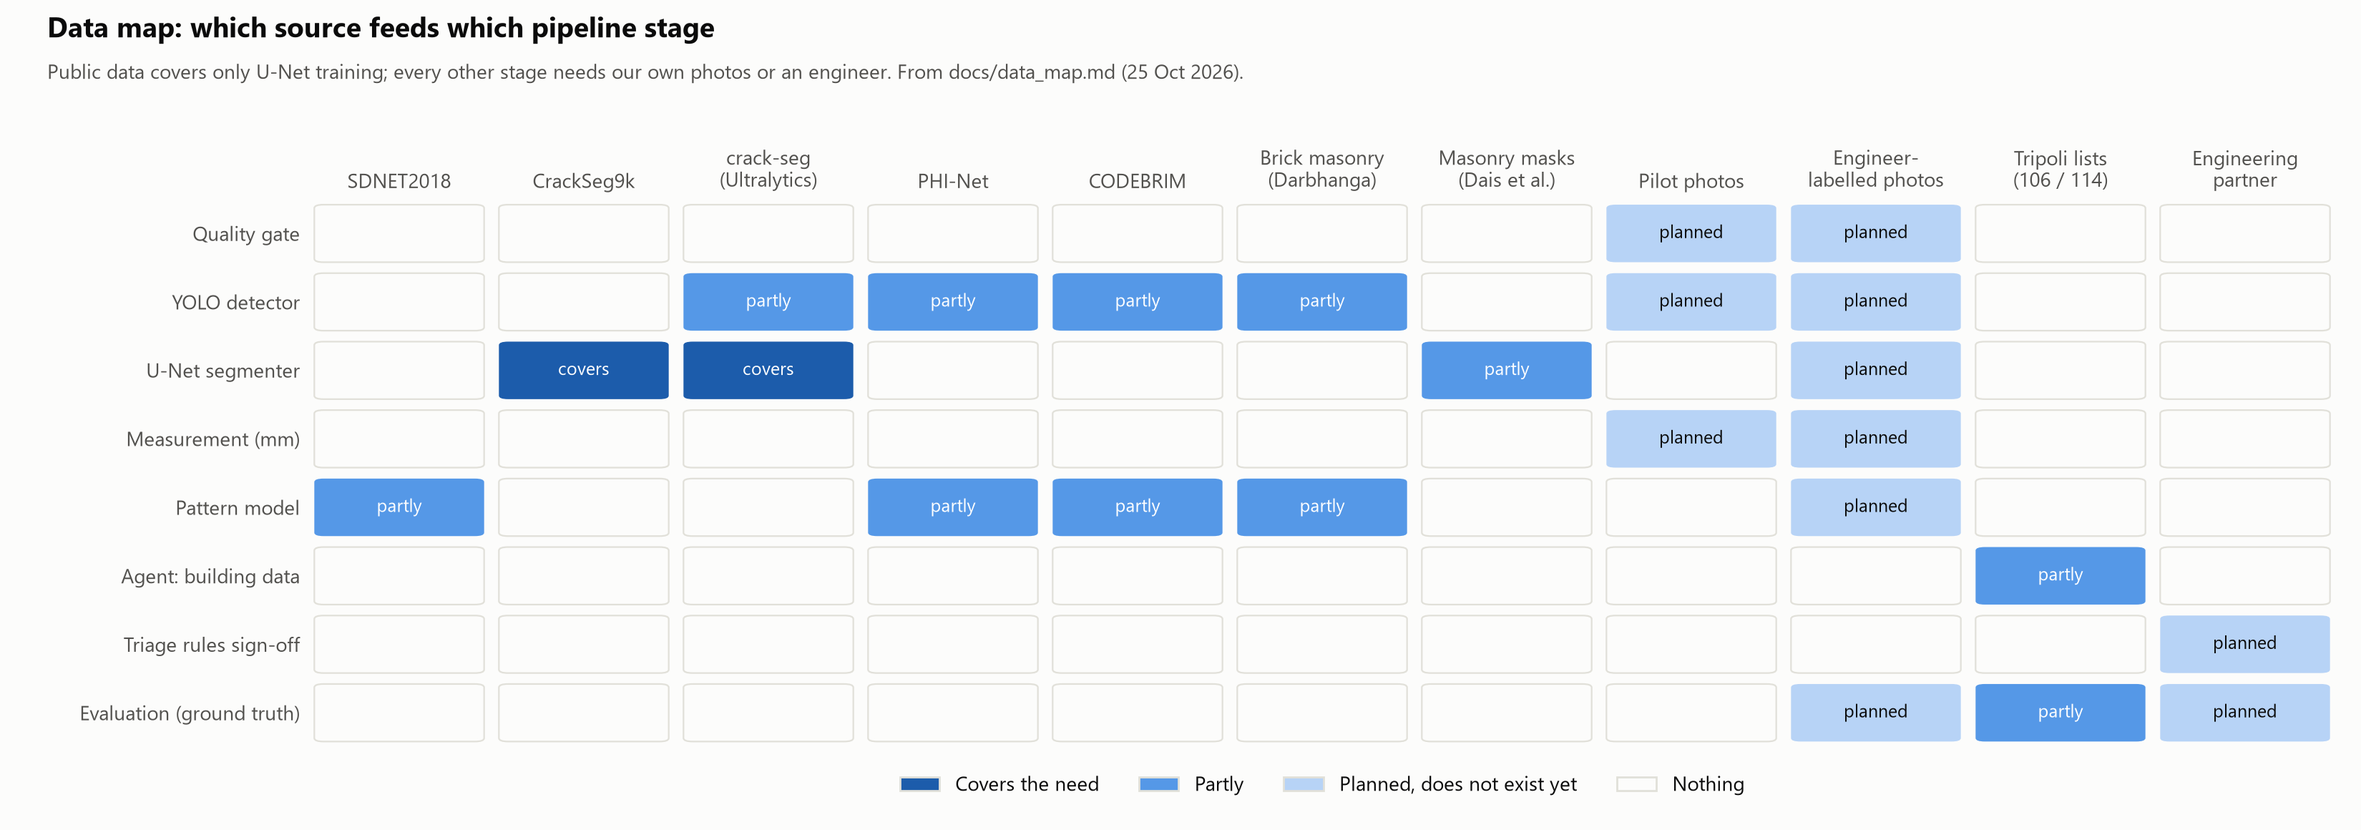
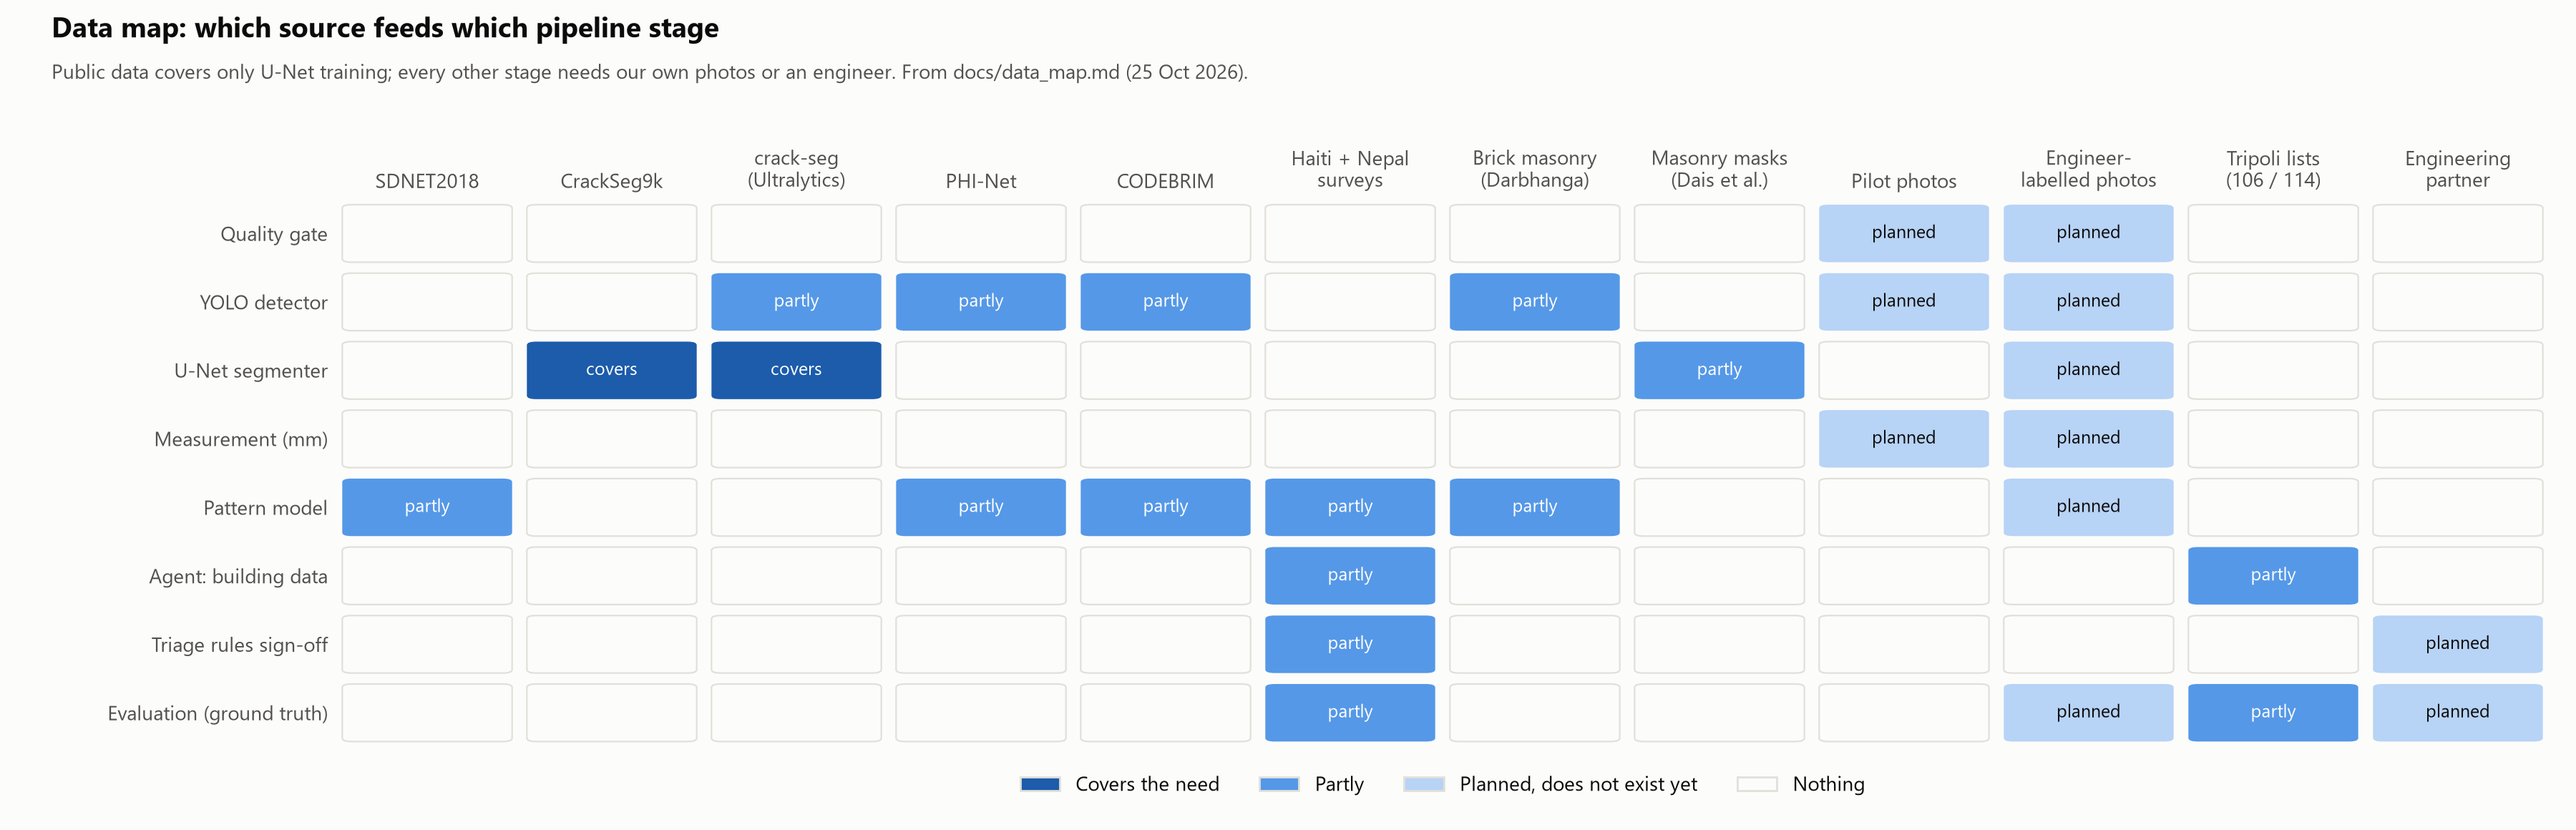
Add engineer-rated earthquake surveys and brick facade set
- Haiti 2010 and Nepal 2015 building surveys (DataCenterHub): engineers'
  photos of real buildings rated light / moderate / severe; ranked as the
  closest public data to the concept
- Building Surveys after Earthquakes and Strathclyde brickwork set added
- Brick facades pass the quality gate; the blur problem is specific to
  smooth plaster and concrete (D12)
- Coverage and dataset charts updated

diff --git a/src/viz/figures.py b/src/viz/figures.py
@@ -196,25 +196,25 @@ def segmentation_tree():
 
 STAGES = ["Quality gate", "YOLO detector", "U-Net segmenter", "Measurement (mm)", "Pattern model",
           "Agent: building data", "Triage rules sign-off", "Evaluation (ground truth)"]
-SOURCES = ["SDNET2018", "CrackSeg9k", "crack-seg\n(Ultralytics)", "PHI-Net", "CODEBRIM", "Brick masonry\n(Darbhanga)",
-           "Masonry masks\n(Dais et al.)", "Pilot photos", "Engineer-\nlabelled photos", "Tripoli lists\n(106 / 114)",
-           "Engineering\npartner"]
+SOURCES = ["SDNET2018", "CrackSeg9k", "crack-seg\n(Ultralytics)", "PHI-Net", "CODEBRIM", "Haiti + Nepal\nsurveys",
+           "Brick masonry\n(Darbhanga)", "Masonry masks\n(Dais et al.)", "Pilot photos", "Engineer-\nlabelled photos",
+           "Tripoli lists\n(106 / 114)", "Engineering\npartner"]
 # From docs/data_map.md, section 1. Rows follow STAGES, columns follow SOURCES.
 COVERAGE = [
-    ["none", "none", "none", "none", "none", "none", "none", "planned", "planned", "none", "none"],
-    ["none", "none", "partial", "partial", "partial", "partial", "none", "planned", "planned", "none", "none"],
-    ["none", "covered", "covered", "none", "none", "none", "partial", "none", "planned", "none", "none"],
-    ["none", "none", "none", "none", "none", "none", "none", "planned", "planned", "none", "none"],
-    ["partial", "none", "none", "partial", "partial", "partial", "none", "none", "planned", "none", "none"],
-    ["none", "none", "none", "none", "none", "none", "none", "none", "none", "partial", "none"],
-    ["none", "none", "none", "none", "none", "none", "none", "none", "none", "none", "planned"],
-    ["none", "none", "none", "none", "none", "none", "none", "none", "planned", "partial", "planned"],
+    ["none", "none", "none", "none", "none", "none", "none", "none", "planned", "planned", "none", "none"],
+    ["none", "none", "partial", "partial", "partial", "none", "partial", "none", "planned", "planned", "none", "none"],
+    ["none", "covered", "covered", "none", "none", "none", "none", "partial", "none", "planned", "none", "none"],
+    ["none", "none", "none", "none", "none", "none", "none", "none", "planned", "planned", "none", "none"],
+    ["partial", "none", "none", "partial", "partial", "partial", "partial", "none", "none", "planned", "none", "none"],
+    ["none", "none", "none", "none", "none", "partial", "none", "none", "none", "none", "partial", "none"],
+    ["none", "none", "none", "none", "none", "partial", "none", "none", "none", "none", "none", "planned"],
+    ["none", "none", "none", "none", "none", "partial", "none", "none", "none", "planned", "partial", "planned"],
 ]
 COVERAGE_LABEL = {"covered": "covers", "partial": "partly", "planned": "planned", "none": ""}
 
 
 def data_coverage():
-    fig, ax = plt.subplots(figsize=(16.5, 5.8))
+    fig, ax = plt.subplots(figsize=(18, 5.8))
     for r, row in enumerate(COVERAGE):
         for c, state in enumerate(row):
             ax.add_patch(FancyBboxPatch((c + 0.04, r + 0.08), 0.92, 0.84, boxstyle="round,pad=0,rounding_size=0.05",
@@ -246,13 +246,15 @@ DATASETS = [("SDNET2018", 56_000, "56,000+  ·  CC BY 4.0  ·  mostly bridges an
             ("PHI-Net", 36_413, "36,413  ·  CC BY-NC-SA 4.0  ·  post-earthquake, no masks"),
             ("CrackSeg9k", 9_255, "9,255  ·  CC0  ·  pixel masks, mostly pavement"),
             ("crack-seg (Ultralytics)", 4_029, "4,029  ·  Public Domain  ·  polygons, roads and walls"),
+            ("Haiti 2010 survey", 6_526, "6,526 photos of 183 buildings  ·  engineer-rated  ·  licence not stated"),
             ("Brick masonry (Darbhanga)", 4_259, "4,259  ·  CC BY 4.0  ·  brick, one heritage building"),
+            ("Brick facades (Strathclyde)", 700, "700  ·  CC BY 4.0  ·  brick facades"),
             ("Pilot phone photos", 0, "0  ·  about 30 cracks this week  ·  no risk labels"),
             ("Engineer-labelled phone photos", 0, "0  ·  to collect in Phase 2  ·  the target data")]
 
 
 def dataset_sizes():
-    fig, ax = plt.subplots(figsize=(11, 5.0))
+    fig, ax = plt.subplots(figsize=(11, 5.6))
     names = [d[0] for d in DATASETS]
     ys = range(len(DATASETS))
     ax.barh(ys, [d[1] for d in DATASETS], height=0.42, color=BLUE)
@@ -268,7 +270,7 @@ def dataset_sizes():
     for s in ("top", "right", "left"):
         ax.spines[s].set_visible(False)
     ax.set_xlabel("Images")
-    fig.suptitle("Public crack data is large, but none of it shows homes in informal areas",
+    fig.suptitle("Public crack data is large; the closest to our homes are small engineer surveys",
                  x=0.02, ha="left", fontsize=14, weight="bold")
     fig.text(0.02, 0.875, "Image counts and licences from each dataset's page. Not plotted: CODEBRIM (36.4 GB, count "
              "not stated, non-commercial) and the Dais et al. masonry subset.", fontsize=9.5, color=INK_2)

diff --git a/src/experiments/real_data_quality.py b/src/experiments/real_data_quality.py
@@ -23,7 +23,8 @@ from quality.gate import MAX_BRIGHTNESS, MIN_BRIGHTNESS, MIN_SHARPNESS, check, t
 
 SDNET_SURFACES = {"D": "bridge deck", "W": "wall", "P": "pavement"}
 DATASET_NAMES = {"crack-seg": "crack-seg (roads, walls)", "darbhanga": "Darbhanga (brick masonry)",
-                 "metu": "METU (building concrete)"}
+                 "metu": "METU (building concrete)",
+                 "strathclyde-brickwork": "Strathclyde (brick facades)"}
 ROOT = Path(__file__).resolve().parents[2]
 
 

diff --git a/docs/data_map.md b/docs/data_map.md
@@ -10,6 +10,10 @@ Raw data is never committed; it lives in `data/` (git-ignored).
 | Fit | Data | Why |
 |---|---|---|
 | **Target** | Engineer-labelled phone photos from informal neighbourhoods (to collect with the partners) | The exact case: homes, phone photos, coin, engineer rating |
+| **High (closest public)** | Haiti 2010 Earthquake Database [41] | Engineers' photos of 183 real buildings in Port-au-Prince and Léogâne, reinforced concrete and concrete-block masonry, each rated light / moderate / severe with crack-based definitions; ratings are per building, after an earthquake, no scale |
+| **High (closest public)** | 2015 Nepal Earthquake Building Performance Database [42] | 146 low-rise RC buildings with masonry infill in Kathmandu, photos, rated light / moderate / severe / collapse; per building, no scale |
+| Medium | Building Surveys after Earthquakes (Nepal, Ecuador, Taiwan, Korea) [43] | Same kind of per-building engineer surveys with photos; non-commercial |
+| Medium | Strathclyde brickwork cracks [44] | 700 brick facade images, crack / no crack; small |
 | Medium | PHI-Net [26] | Real damaged buildings after earthquakes, with component and damage labels; not pre-failure cracks; non-commercial |
 | Medium | Darbhanga brick masonry [30] | Brick walls, the material of many informal homes; one heritage fort, not homes |
 | Medium | Dais et al. masonry masks [31] | Masonry walls with pixel masks; small |
@@ -19,7 +23,9 @@ Raw data is never committed; it lives in `data/` (git-ignored).
 | Low | crack-seg [33], CrackSeg9k [25] | Mostly roads and pavement; generic pre-training for crack pixels only |
 | **Off-concept** | CODEBRIM [28], SDNET2018 decks and pavement [22] | Bridges and roads, not buildings |
 
-**Still missing:** crack photos from informal or self-built housing. To search: post-disaster housing surveys and reconnaissance photo sets (for example the StEER reports [20]) and humanitarian shelter assessments.
+**Closest public data:** the post-earthquake building surveys from Haiti and Nepal [41][42]: real buildings in dense, poor neighbourhoods, photographed and rated by engineers. Their damage classes map onto our levels: light (no damage or hairline cracks), moderate (wider cracks or spalling), severe (see-through cracks, failure). Limits: one rating per building, not per crack; damage after an earthquake, not slow deterioration; no scale reference.
+
+**Still missing:** per-crack photos with a scale from informal or self-built housing before any disaster. Only our own collection with the partners can give that.
 
 ## 1. What each pipeline stage needs, and where it comes from
 
@@ -51,6 +57,10 @@ Raw data is never committed; it lives in `data/` (git-ignored).
 | CODEBRIM | Zenodo record 2620293 [28], CVPR 2019 paper [29] | Available | Open record, licence file must be accepted | Original images, cropped defects with class labels from bounding boxes, classification sets | 36.4 GB in total (cropped set 7.9 GB); image count not stated on the record | Non-commercial research and education only; no redistribution; trained models may not be used commercially | Five concrete defects on 30 bridges: crack, spalling, exposed bars, efflorescence, corrosion stains | Bridges, not homes; no scale; licence blocks any product use |
 | Brick masonry cracks, Darbhanga Fort | Singh and Maity, Mendeley Data [30] | **Downloaded** (SHA-256 matches) | Public download, scriptable | YOLO bounding boxes (class x y w h), 1 class; all images 768 x 768; test set has no labels | 4,259 images (3,407 train incl. 203 without cracks, 639 val, 213 test); 363 MB zip | CC BY 4.0 | Superficial cracks in red brick masonry | One heritage structure, not homes; no scale; boxes, not masks |
 | METU Concrete Crack Images for Classification | Özgenel, Mendeley Data, doi:10.17632/5y9wdsg2zt.2 [36] | **Downloaded** (SHA-256 matches) | Public download, scriptable; RAR archive | JPEG tiles 227 x 227, Positive / Negative folders | 40,000 (20,000 crack, 20,000 no crack), cut from 458 photos of 4032 x 3024; 241 MB | CC BY 4.0 | Concrete surfaces of buildings on the METU campus, Ankara | Formal campus buildings, not informal homes; no masks, no scale |
+| Haiti Earthquake Database (2010) | Sedra, Eberhard, Pujol et al., DataCenterHub, doi:10.4231/D3P843W0H [41] | Available (not downloaded: 14 GB) | Public page, data in a Dropbox folder, no login stated | Spreadsheet (one row per building), photographs, field diagrams | 6,526 photos of 183 structures (170 surveyed in detail: 138 Port-au-Prince, 38 Léogâne); 14.0 GB zip | Not stated on the page: ask the authors before reuse | RC and concrete-block masonry buildings, 1 to 12 floors; damage light / moderate / severe for RC and for masonry walls, defined by crack width | One rating per building; post-earthquake; no scale |
+| 2015 Nepal Earthquake Building Performance Database | Shah, Pujol, Puranam, Laughery, DataCenterHub, doi:10.7277/Z82F-0728 [42] | Available (not downloaded) | Public page | Spreadsheet per building with photos, drawings, KML map | 146 low-rise RC buildings, Kathmandu; photo count not stated | CC BY-SA 3.0 | RC with masonry infill; structural damage light / moderate / severe / collapse, infill damage light / moderate / severe | Per building; post-earthquake; no scale |
+| Building Surveys after Earthquakes | Monical, ACI Committee 133, DataCenterHub, doi:10.7277/368Q-T523 [43] | Available (not downloaded) | Public page | Per-building dimensions, ground motion, photos, figures | Counts not stated | CC BY-NC-SA 4.0 (non-commercial) | 2015 Nepal, 2016 Ecuador, 2016 Taiwan, 2017 South Korea; RC buildings | Damage scheme not stated on the page; non-commercial |
+| Brickwork Cracks Dataset | Seyedzadeh, Katsigiannis et al., Zenodo, doi:10.5281/zenodo.8014150 [44] | **Downloaded** (MD5 matches) | Open, Zenodo | 227 x 227 images, Positive / Negative folders | 700 (350 crack, 350 no crack); 9 MB | CC BY 4.0 | Brick facades | Small; no masks, no scale |
 | Masonry crack masks, Dais et al. 2021 | GitHub repository [31] | Subset available | Public repository | 224 x 224 images with crack masks | Subset only; count not stated | GPL-3.0 on the repository (written for code; terms for the images to confirm with the authors) | Masonry walls, complex backgrounds | Small; part of it is already in CrackSeg9k [32] |
 
 ### Our own data
@@ -80,7 +90,7 @@ Raw data is never committed; it lives in `data/` (git-ignored).
 ## 4. Plan, in order
 1. **First test on real data (29 Oct): done** on crack-seg, Darbhanga and SDNET2018 (`docs/experiments/2026-10-25_quality_gate_first_test.md`). It found and fixed a resolution bug in the blur check, and showed that the blur check confuses smooth walls with blur (D12). Tests the code, not the thresholds.
 2. **U-Net pre-training:** CrackSeg9k for generic crack pixels, then fine-tune on masonry (Dais et al., if their image terms allow it) and on our own building photos.
-3. **Building-like data first:** Darbhanga (brick), PHI-Net (damaged buildings), METU (building concrete). CODEBRIM is off-concept (bridges): use it only if no building photos of spalling with rust turn up.
+3. **Building-like data first:** Haiti and Nepal engineer surveys (real buildings, engineer ratings), then Darbhanga and Strathclyde (brick), PHI-Net (damaged buildings), METU (building concrete). CODEBRIM is off-concept (bridges): use it only if no building photos of spalling with rust turn up.
 4. **Find informal-housing crack photos:** post-disaster housing surveys, reconnaissance photo sets, shelter assessments (section 0).
 5. **Pilot photos this week:** about 30 cracks on public facades in Barcelona, following `spec/features/photo_protocol.md`. Tests the protocol and gives the quality gate real phone photos.
 6. **Engineering partners, now:** Engineers Without Borders and a third-party structural engineer (agreement under construction) for labelled photos, baseline ratings and sign-off. Everything in Phase 2 waits on this.

diff --git a/docs/experiments/2026-10-25_quality_gate_first_test.md b/docs/experiments/2026-10-25_quality_gate_first_test.md
@@ -4,7 +4,7 @@ Deliverable for 29 Oct: "agent working on real data as a first test".
 Spec: `spec/features/quality_gate.md`. Code: `src/experiments/real_data_quality.py`. Figure: `figures/08_real_data_quality_gate.png`.
 
 ## What was run
-The quality gate's image checks (sharpness, brightness) on four public datasets, downloaded into `data/raw/` (git-ignored). First run: every image of crack-seg and Darbhanga (8,288). Later runs added SDNET2018 and METU: up to 2,000 random images per group (20,417 in the last run).
+The quality gate's image checks (sharpness, brightness) on five public datasets, downloaded into `data/raw/` (git-ignored). First run: every image of crack-seg and Darbhanga (8,288). Later runs added SDNET2018 and METU: up to 2,000 random images per group (20,417 in the last run).
 
 | Dataset | Images | Size | Labels | Check of the download |
 |---|---|---|---|---|
@@ -25,6 +25,8 @@ The coin check is not implemented, so every image was treated as if the coin wer
 | Darbhanga | crack | 2,000 | 73% | 219.6 | 123.9 | blurred |
 | Darbhanga | no crack | 203 | 95% | 233.9 | 149.9 | blurred |
 | Darbhanga | unlabelled (test) | 213 | 89% | 286.6 | 121.7 | blurred |
+| Strathclyde brick facades | crack | 350 | 100% | 1,418.7 | 135.6 | - |
+| Strathclyde brick facades | no crack | 350 | 100% | 964.6 | 151.4 | - |
 | METU building concrete | crack | 2,000 | 39% | 82.0 | 165.0 | blurred |
 | METU building concrete | no crack | 2,000 | 3% | 21.5 | 183.5 | blurred |
 | SDNET2018 bridge deck | crack | 2,000 | 25% | 58.2 | 178.6 | blurred |
@@ -40,7 +42,7 @@ First run on every crack-seg image (4,029): 97% pass, 118 too bright, 14 blurred
 1. **The code runs on real images end to end**: three datasets, up to 16,417 images per run, measured and logged, with a figure.
 2. **Bug found and fixed: sharpness depended on resolution.** Before the fix the gate rejected 63% of all Darbhanga images as blurred. Scaling the same images to 416 px dropped the blurred share from 67% to 11% (sample of 107 images). A phone photo at about 4000 px would almost always have failed. The gate now measures on a copy scaled to 512 px (`spec/decisions.md` D8). This is why a test on real data was worth doing before the pilot.
 3. **Cracked brick images score lower on sharpness than uncracked ones** (73% vs 95% pass). Possible reasons: close-ups of cracks, smoother surfaces, or real blur. Not tested; we need to look at the rejected images before changing anything.
-4. **Second problem found: the blur measure confuses smooth surfaces with blur.** The gate rejects 75 to 89% of SDNET2018 wall and deck tiles, but only 9 to 16% of pavement. These are 256 px tiles, so it is not the resolution bug. A visual check of 8 rejected cracked-wall tiles: most are in focus, smooth low-contrast concrete with hairline cracks; a few look slightly soft. Laplacian variance measures texture as much as focus. On real walls this means **hairline cracks on smooth plaster or concrete would be sent back for retake again and again**. That is safe (a retake is never a Low) but makes the tool unusable for exactly the walls we care about. **Confirmed on building walls:** on METU (concrete surfaces of campus buildings, the closest of these sets to our concept, D14) the gate rejects 61% of cracked and 97% of uncracked tiles. Not fixed yet: we need photos with known blur to choose a better measure (`spec/decisions.md` D12).
+4. **Second problem found: the blur measure confuses smooth surfaces with blur.** The gate rejects 75 to 89% of SDNET2018 wall and deck tiles, but only 9 to 16% of pavement. These are 256 px tiles, so it is not the resolution bug. A visual check of 8 rejected cracked-wall tiles: most are in focus, smooth low-contrast concrete with hairline cracks; a few look slightly soft. Laplacian variance measures texture as much as focus. On real walls this means **hairline cracks on smooth plaster or concrete would be sent back for retake again and again**. That is safe (a retake is never a Low) but makes the tool unusable for exactly the walls we care about. **Confirmed on building walls:** on METU (concrete surfaces of campus buildings, the closest of these sets to our concept, D14) the gate rejects 61% of cracked and 97% of uncracked tiles. Textured brick passes (Strathclyde brick facades: 100%), so the problem is specific to smooth surfaces: plaster and concrete. Not fixed yet: we need photos with known blur to choose a better measure (`spec/decisions.md` D12).
 5. **"Too bright" is the main failure on crack-seg** (118 of 4,029). Many images are pale concrete or pavement; the 220 limit may be too strict for light walls. To check on the pilot phone photos.
 
 ## Limits

diff --git a/docs/sources.md b/docs/sources.md
@@ -42,3 +42,7 @@ Numbered as in the 22 Oct 2026 presentation. [25] to [27] added for the data map
 38. Crack Detection/Classification Dataset, Kaggle (v1, checked 25 Oct 2026): https://www.kaggle.com/datasets/nawfeelrahman1124444/crack-detectionclassification-dataset
 39. Building Crack Detection Dataset, Kaggle (v1, checked 25 Oct 2026): https://www.kaggle.com/datasets/ziya07/building-crack-detection-dataset
 40. Techsalerator, Satellite Imagery Data for Haiti, Kaggle (v1, checked 25 Oct 2026): https://www.kaggle.com/datasets/techsalerator/satellite-imagery-data-for-haiti
+41. Sedra, Eberhard, Irfanoglu, Matamoros, Pujol et al., NEES: The Haiti Earthquake Database (2017), DataCenterHub, doi:10.4231/D3P843W0H: https://datacenterhub.org/resources/263
+42. Shah, Pujol, Puranam, Laughery, 2015 Nepal Earthquake Building Performance Database (2016), DataCenterHub, doi:10.7277/Z82F-0728: https://datacenterhub.org/landingpages/537/537_LandingPage.html
+43. Monical, Building Surveys after Earthquakes (2020), DataCenterHub, doi:10.7277/368Q-T523: https://datacenterhub.org/landingpages/137/137_LandingPage.html
+44. Seyedzadeh, Katsigiannis, Agapiou, Ramzan, Brickwork Cracks Dataset v1.0 (2023), Zenodo, doi:10.5281/zenodo.8014150: https://zenodo.org/records/8014150
